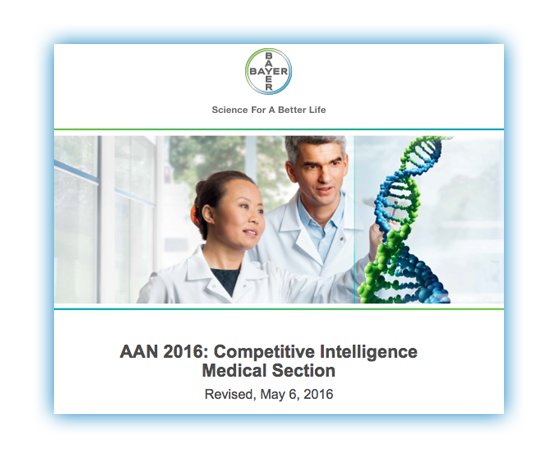
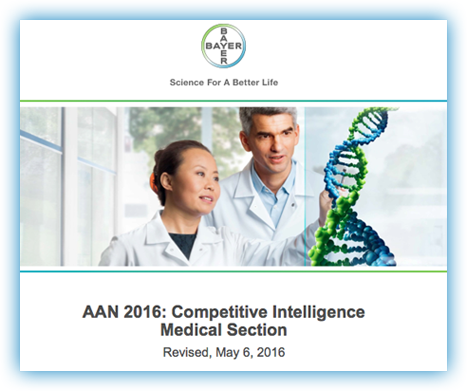
Update

diff --git a/May2016 AAN article/index.html b/May2016 AAN article/index.html
@@ -15,13 +15,15 @@
 /* close commented backslash hack */
 h1 { font-size: 22px; font-family: arial; font-weight: 700; }
 p { font-size: 20px; font-family: arial; line-height: 24px; }
+ul { font-size: 20px; font-family: arial; line-height: 30px; margin-top: -10px; }
+ul li { padding-left: 0; margin-left: -20px; }
 </style>
 	<body style="background: #fff; width: 800px; height: 100%; margin: 0 auto; margin-top: 30px;">
-		<div id="container" style="position: relative; background-color: fcfcfc;">
+		<div id="container" style="position: relative;">
 
-			<section class="clearfix" style="position: relative; border: 1px solid #ccc; padding: 25px;">
-				<div style="position: relative; background-color: #eee; width: 50%; float: left;"><img style="width: 100%;" src="imgs/Vancouver.png" alt=""></div>
-				<div style="position: relative; background-color: #eee; width: 50%; float: right;">
+			<section class="clearfix" style="position: relative; padding: 25px;">
+				<div style="position: relative; width: 50%; float: left;"><img style="width: 100%;" src="imgs/Vancouver.png" alt=""></div>
+				<div style="position: relative; width: 50%; float: right;">
 					<div style="position: relative; padding-left: 5px; padding-top: 40px;">
 						<h1>AAN 2016</h1>
 						<p>
@@ -29,15 +31,15 @@ p { font-size: 20px; font-family: arial; line-height: 24px; }
 						</p>
 					</div>
 				</div>
-				<div style="position: relative; background-color: #eee; width: 100%; float: right;">
+				<div style="position: relative; width: 100%; float: right;">
 					<p>
 						The week was filled with activities, including the BETASERON promotional booth, an advisory board meeting, poster and data presentation and interactions with key opinion leaders.
 					</p>
 				</div>
 			</section>
 			<div style="width: 100%; padding-left: 25px;"><img src="imgs/Band_1.png" alt=""></div></div>
-			<section class="clearfix" style="position: relative; border: 1px solid #ccc; padding: 25px;">
-				<div style="float: left; width: 70%; background-color: pink;">
+			<section class="clearfix" style="position: relative; padding: 25px;">
+				<div style="float: left; width: 70%;">
 					<h1 style="text-style: italic;">BETASERON Promotional Booth</h1>
 					<p>
 						Bold colors, the energetic “Don’t MS around” US campaign and prominent BETACONNECT displays made the Betaseron booth a highlight in the week’s events. Since FDA approval in September 2015, AAN marked the first major event to formally introduce BETACONNECT to U.S. physicians. The Betaseron team noted that interest in the device was high and feedback on its features was overwhelmingly positive. To assist in these 	discussions, a larger-than-life model of the device was on display within the booth, along with several informational video monitors and interactive touchscreens, which incorporated a dynamic 3D-rendering of the autoinjector.
@@ -46,78 +48,161 @@ p { font-size: 20px; font-family: arial; line-height: 24px; }
 						Relative to other exhibitor displays, the BETASERON booth had excellent foot traffic and attendance was strong with more than 300 physicians stopping by. Half of recorded visitors came from the US and the balance traveled from around the world, including countries as far away as Hong Kong. These meetings created several leads for the sales force to follow-up with once attendees were back in their home cities.
 					</p>
 				</div>
-				<div style="float: right; width: 30%; background-color: lightblue;">
+				<div style="float: right; width: 30%;">
 					<img src="imgs/Booth_1.png" alt="">
 					<img style="margin-left: -30px; margin-top: -20px; padding-bottom: 40px;" src="imgs/Booth_2.png" alt="">
 				</div>
-				<div style="float: left; width: 100%; background-color: pink;">
+				<div style="float: left; width: 100%;">
 					<p>
 						<img style="width: 70%; float: right;" src="imgs/US_launch_group.png" alt="">
 						The US team would like to thank all those involved with preparing and staffing the booth, including Bayer sales consultants and managers, who worked together to make this a great experience for our customers. We look forward to our next major congress, the annual cMSc (Consortium of MS Centers) meeting in National Harbor, Maryland, 1-4 June.
 					</p>
 				</div>
 			</section>
-			<div style="width: 100%; padding-left: 25px;"><img src="imgs/Band_1.png" alt=""></div></div>
-		</div>
-	</body>
-</html>
-
-
-
-
-<!--
-
-<html style="background: #eee">
-	<body style="background: #fff; width: 800px; height: 100%;">
-		<div style="width: 800px!important; font-size: 20px; font-family: arial; line-height: 24px; padding: 25px;">
-			
-			<section>
-				<div style="width: 458px; height: 399px; float: left; margin-left: -25px;"><img src="imgs/Vancouver.png" alt=""></div>
-				<div style="width: 317px; float: left; padding-top: 90px;">
-					<h1 style="font-size: 22px; font-weight: 700;">AAN 2016</h1>
-					<p>
-						The Betaseron brand team was proud to host physician customers from around the world at the annual American Academy of Neurology congress, 18-21 April in beautiful Vancouver, British Columbia. Many global colleagues from Europe, the Middle East and the Americas joined the US brand team to represent Bayer.
-					</p>
-				</div>
-				<div style="width: 750px;">
-					<p>
-						The week was filled with activities, including the BETASERON promotional booth, an advisory board meeting, poster and data presentation and interactions with key opinion leaders.
-					</p>
-				</div>
-			</section>
-
-			<div style="width: 749px; height: 27px;"><img src="imgs/Band_1.png" alt=""></div>
-
-			<section>
+			<div style="width: 100%; padding-left: 25px;"><img src="imgs/Band_2.png" alt=""></div></div>
+			<section class="clearfix" style="position: relative; padding: 25px;">
 				<div>
-					<div style="width: 527px; float: left;">
-						<h1 style="font-size: 22px; text-style: italic;">BETASERON Promotional Booth</h1>
-						<p>
-							Bold colors, the energetic “Don’t MS around” US campaign and prominent BETACONNECT displays made the Betaseron booth a highlight in the week’s events. Since FDA approval in September 2015, AAN marked the first major event to formally introduce BETACONNECT to U.S. physicians. The Betaseron team noted that interest in the device was high and feedback on its features was overwhelmingly positive. To assist in these 	discussions, a larger-than-life model of the device was on display within the booth, along with several informational video monitors and interactive touchscreens, which incorporated a dynamic 3D-rendering of the autoinjector.
-						</p>
-						<p>
-							Relative to other exhibitor displays, the BETASERON booth had excellent foot traffic and attendance was strong with more than 300 physicians stopping by. Half of recorded visitors came from the US and the balance traveled from around the world, including countries as far away as Hong Kong. These meetings created several leads for the sales force to follow-up with once attendees were back in their home cities.
-						</p>
+					<h1 style="text-style: italic;">KOL Engagement Activities (Mark Rametta)</h1>
+					<p>
+						Bayer seized AAN as an opportunity to engage industry thought-leaders and patient advocacy groups in discussions surrounding BETASERON, BETACONNECT and current topics in the field of MS.
+					</p>
+					<p>
+						On Monday, 18 April, Bayer held an Advisory Board meeting entitled, Long-Term Studies with BETASERON. Attendees of the event, including 18-top MS experts from multiple academic institutions, convened to discuss topics that centered around:
+					</p>
+					<div class="clearfix">
+						<div style="float: left; width: 70%;">
+							<ul>
+								<li>Value of recently generated data with BETASERON</li>
+								<li>Potential, future, long-term studies with BETASERON</li>
+							</ul>
+							<p>
+								Post-meeting ratings were exceptional and Bayer values the insights and feedback provided by those in attendance.
+							</p>
+							<p>
+								Bayer also hosted several MS patient advocacy groups on Tuesday, 19 April, to discuss new and ongoing projects related to BETACONNECT and other new initiatives. 
+							</p>
+						</div>
+						<div style="float: right; width: 30%;"><img style="width: 100%;" src="imgs/Data_Analysis.png" alt=""></div>
 					</div>
-					<div style="width: 238px; height: 220px; float: right; margin-right: 35px;">
-						<img src="imgs/Booth_1.png" alt="">
-						<img style="margin-left: -30px; margin-top: -20px;" src="imgs/Booth_2.png" alt="">
+					<div>
+						<div style="float: left; width: 40%;"><img style="width: 100%;" src="imgs/Working_Together.png" alt=""></div>
+						<div style="float: right; width: 60%; padding-bottom: 13px;">
+							<p>
+								Organizations that attended the event included:
+								<ul>
+									<li>Multiple Sclerosis Association of America</li>
+									<li>National Multiple Sclerosis Society</li>
+									<li>Can Do MS</li>
+									<li>Multiple Sclerosis Foundation</li>
+									<li>Cure MS Fund</li>
+								</ul>
+							</p>
+						</div>
 					</div>
-				</div>
-				<div>
-					<div style="width: 232px; float: left; margin-top: 300px;">
+					<div>
 						<p>
-							The US team would like to thank all those involved with preparing and staffing the booth, including Bayer sales consultants and managers, who worked together to make this a great experience for our customers. We look forward to our next major congress, the annual cMSc (Consortium of MS Centers) meeting in National Harbor, Maryland, 1-4 June.
+							During the congress, Bayer’s Medical Team also met with many academic and community-based MS specialists to discuss ongoing studies and areas of scientific interest.
 						</p>
-					</div>
-					<div style="width: 518px; height: 257px; float: right;">
-						<img style="width: 100%;" src="imgs/US_launch_group.png" alt="">
 					</div>
 				</div>
 			</section>
-
+			<div style="width: 100%; padding-left: 25px;"><img src="imgs/Band_3.png" alt=""></div></div>
+			<section class="clearfix" style="position: relative; padding: 25px;">
+				<div>
+					<h1 style="text-style: italic;">AAN Competitive Intelligence</h1>
+					<p>
+						As in previous years, comprehensive Competitive Intelligence reports have been compiled to detail both Bayer and competitive activities at AAN. We encourage colleagues to download the following slide decks which detail both Marketing and Medical observations at AAN.
+					</p>
+					<div class="clearfix">
+						<div style="width: 49%; float: left; text-align: center;">
+							<img style="width: 100%;" src="imgs/Marketing.png" alt="">
+							<span>Marketing Slide Deck</span>
+						</div>
+						<div style="width: 49%; float: right; text-align: center;">
+							<img style="width: 100%;" src="imgs/Medical.png" alt="">
+							<span>Medical Slide Deck</span>
+						</div>
+					</div>
+					<p>
+						Special thanks to the following members of the US Medical and Marketing teams, as well as their international colleagues, for their assistance in gathering the information detailed in these reports.
+					</p>
+					<div class="clearfix">
+						<div style="float: left; width: 30%;"><img style="width: 97%;" src="imgs/thanks_a_lot!.png" alt=""></div>
+						<div style="float: left; width: 40%;">
+							<p>
+								<span style="margin-left: 7px;"></span>Scientific Sessions &amp; Posters:
+								<ul style=" margin-left: 7px;">
+									<li>Judy Schaff, US MSL</li>
+									<li>Linda Krueger, US MSL</li>
+									<li>Lindsey Araujo, US MSL</li>
+									<li>Bernadett Mamone, US MSL</li>
+									<li>Vanessa Johnson, US MSL</li>
+									<li>Mark Rametta</li>
+									<li>Eva-Marie Wicklein</li>
+									<li>Martina Sintzel</li>
+								</uk>
+							</p>
+						</div>
+						<div style="float: left; width: 30%;">
+							<p>
+								Key Competitor Information:
+								<ul>
+									<li>Samiksha Malhotra</li>
+									<li>Michael Doyle</li>
+									<li>Juergen Reischl</li>
+									<li>Martina Sintzel</li>
+								</ul>
+							</p>
+						</div>
+					</div>
+					<p>
+						The Global team would like to acknowledge all those that participated in the AAN pre-call meeting to review the booth and new scientific data presented at the congress. Also, thanks to the colleagues who were able to attend AAN and join us for the Competitive Intelligence breakfast to review key competitor activities and trends seen at the congress.
+					</p>
+				</div>
+			</section>
+			<div style="width: 100%; padding-left: 25px;"><img src="imgs/Band_4.png" alt=""></div></div>
+			<section class="clearfix" style="position: relative; padding: 25px;">
+				<div>
+					<h1 style="text-style: italic;">Bayer Supported Posters (Martina)</h1>
+					<p>
+						Bayer presented the following two posters at this year’s AAN congress.
+					</p>
+					<p>
+						<img style="width: 50%; float: right;" src="imgs/FINAL-2016_AAN_NEDA_(Goodin)_Poster_04-08-16.png" alt="">
+						Evaluation of the NEDA (No Evidence of Disease Activity) measure for predicting long-term outcomes from the pivotal trial of interferon beta-1b in multiple sclerosis (Goodin)
+						<ul>
+							<li>Investigating the current hot topic of NEDA (no evidence of disease activity) and potential benefits of evaluating short-term data for long-term usage</li>
+							<li>Data from the original pivotal Betaferon study and the outcomes from the long-term follow-up analyses (16-Year LTF or 21-Year LTF) were utilized for this research</li>
+							<li>The findings of this study:<br><br>
+								<ul>
+									<li>Illustrated that clinical NEDA (no relapses; no disability worsening) after 2 years of treatment with Betaferon was associated with better outcomes after 16 years</li>
+									<li>Noted that when MRI parameters were included in the definition of NEDA, NEDA could not predict significantly the disease outcomes</li>
+									<li>Showed that neither definition of NEDA (clinical; clinical + MRI) significantly predicted survival at 21 years, although there were trends for both</li>
+								</ul>
+							</li>
+						</ul>
+					</p>
+					<p>
+						<img style="width: 50%; float: right;" src="imgs/FINAL-2016_AAN_BEN_11_Regression_(Freedman)_Poster_04-08-16.png" alt="">
+						Baseline predictors of disease activity in patients with CIS treated with interferon beta-1b in the BENEFIT 11 trial (Freedman)
+						<ul>
+							<li>Exploring what early signs of MS can tell us over the long-run</li>
+							<li>The data set from BENEFIT 11 was used for this study</li>
+							<li>A number of demographic, MRI and clinical variables were identified that predicted longer-term disease outcomes. For example:<br><br>
+								<ul>
+									<li>Younger patients appeared to have faster conversion to CDMS and higher annualized relapse rate, but a lower risk for EDSS progression</li>
+									<li>Females may have been associated with higher relapse activity and likelihood of disease progression</li>
+								</ul>
+							</li>
+						</ul>
+					</p>
+					<div style="background-image: url('/imgs/Gradient_Box.png'); height: 130px; width: 800px; background-repeat: no-repeat;">
+						<p style="padding: 10px 30px 10px 15px; width: 740px;">
+							Both posters illustrate Bayer’s commitment and utilization of our long-term study data to further substantiate the impact of Betaferon in Multiple Sclerosis.
+						</p>
+					</div>
+				</div>
+			</section>
 		</div>
 	</body>
 </html>
-
--->
